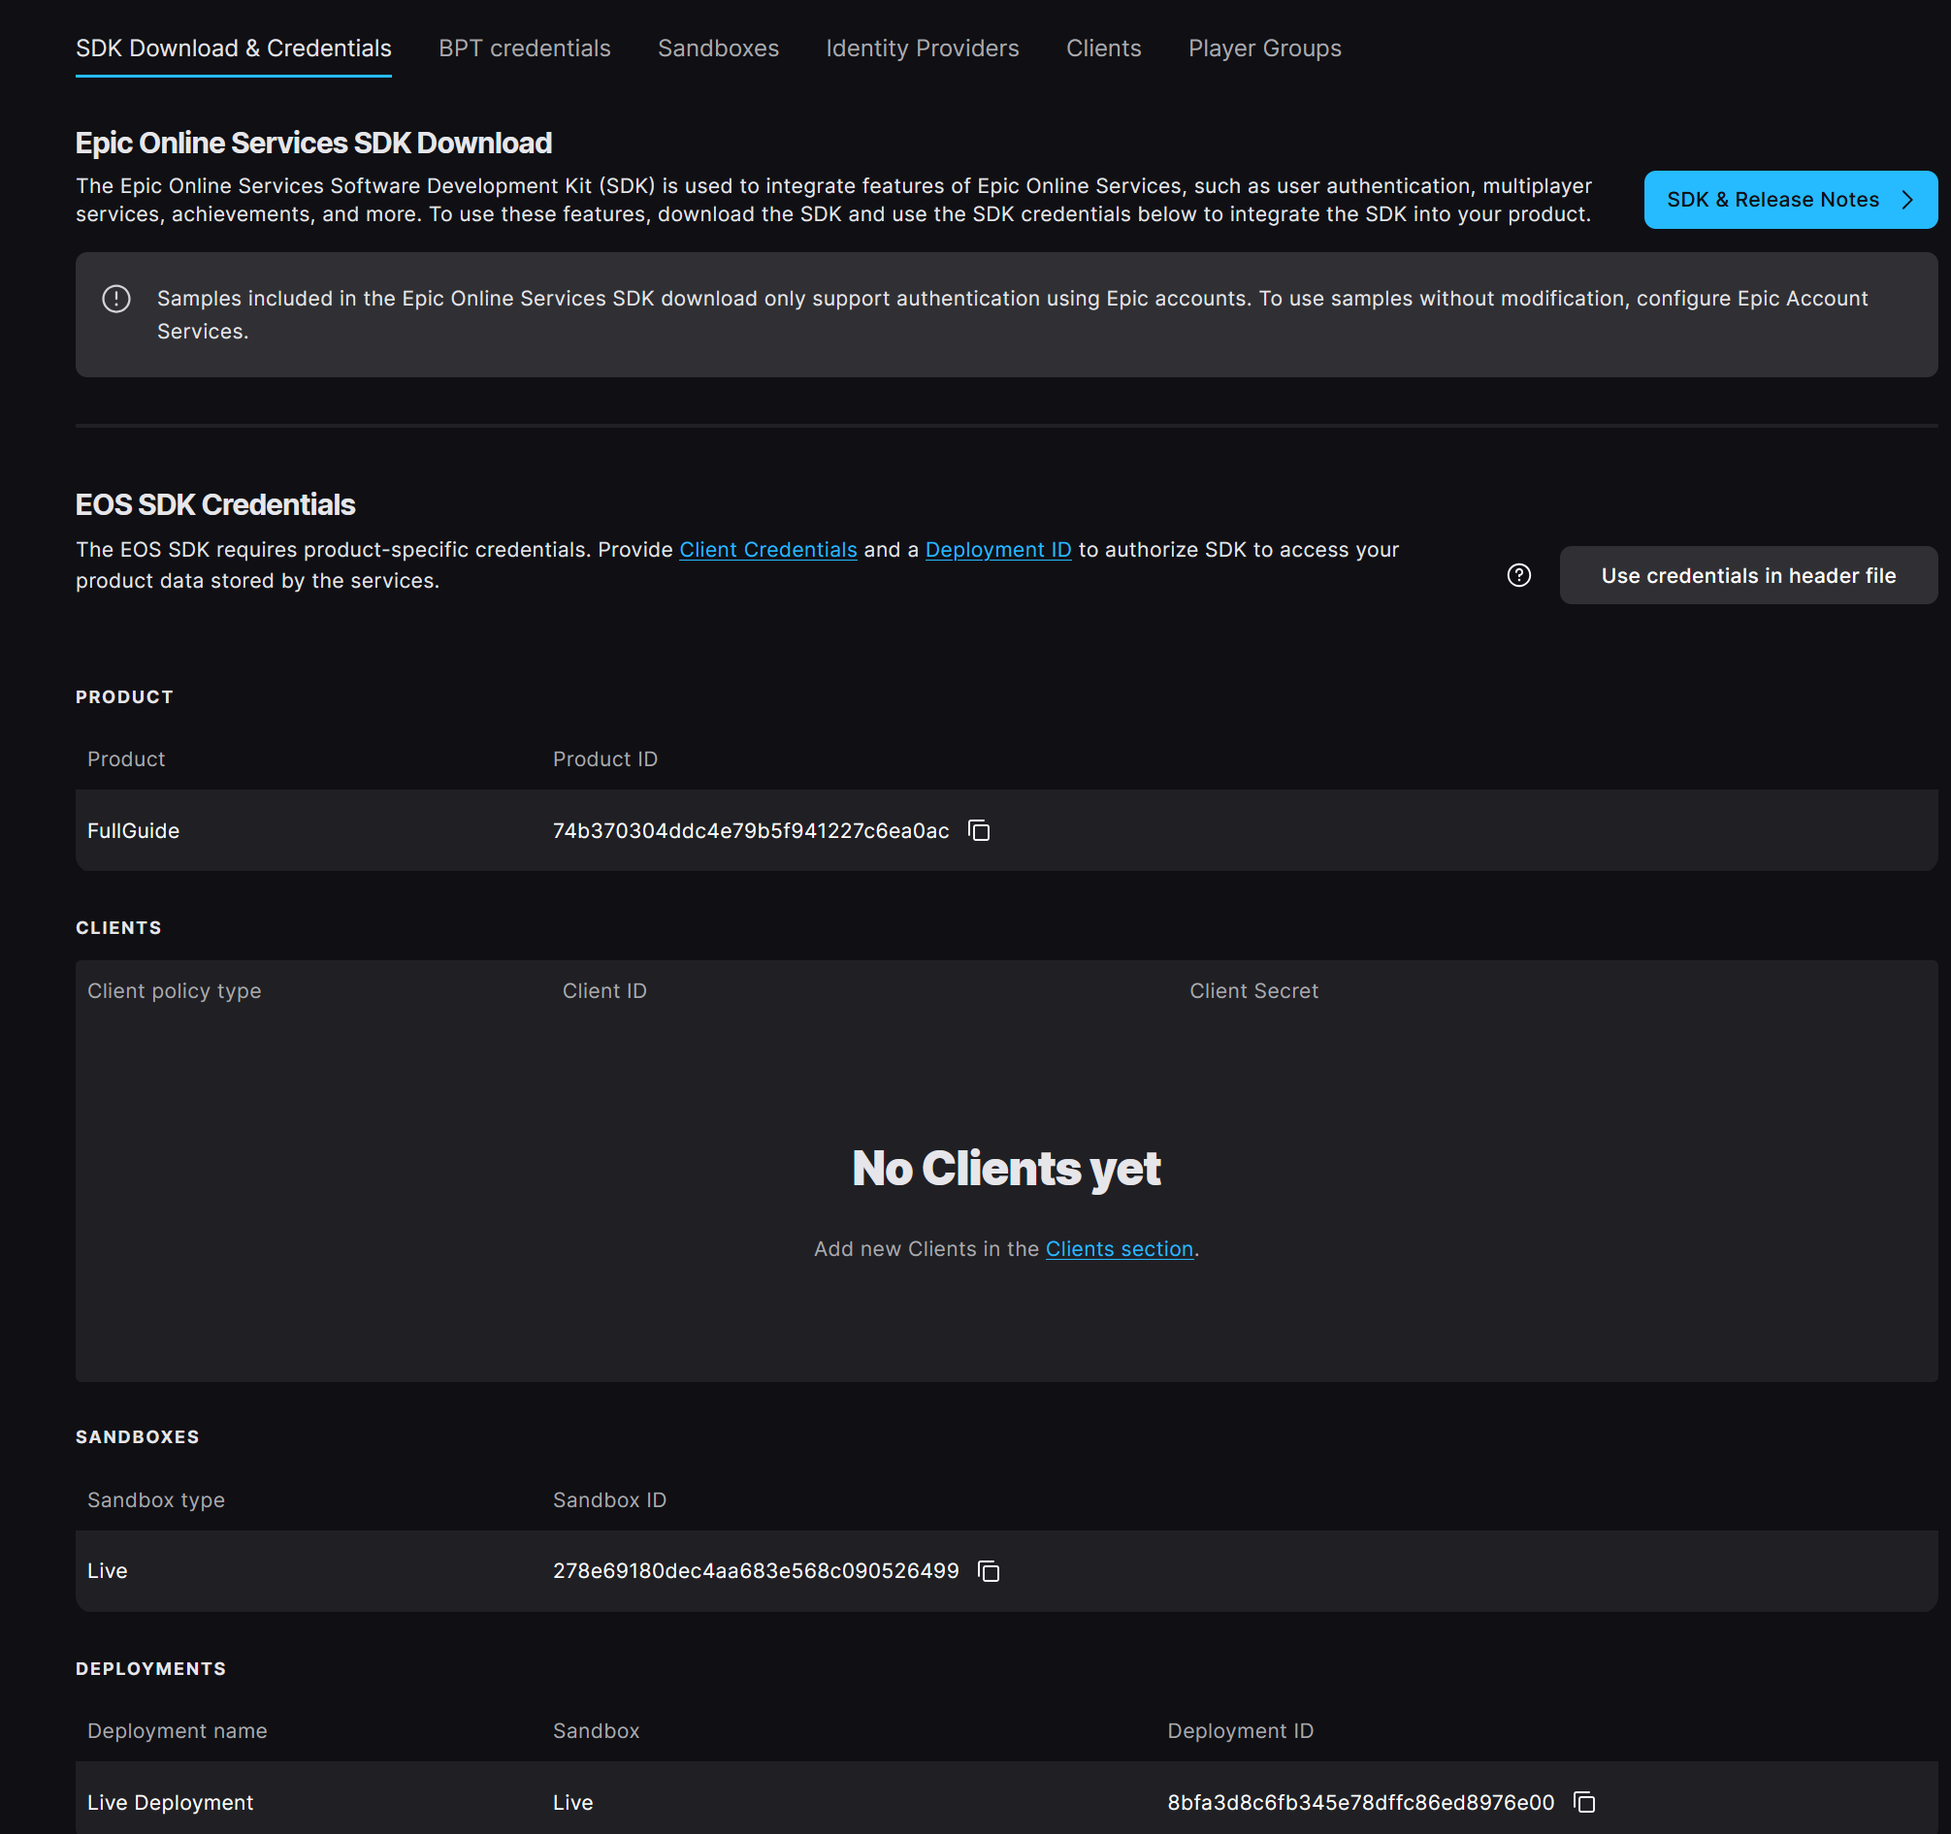
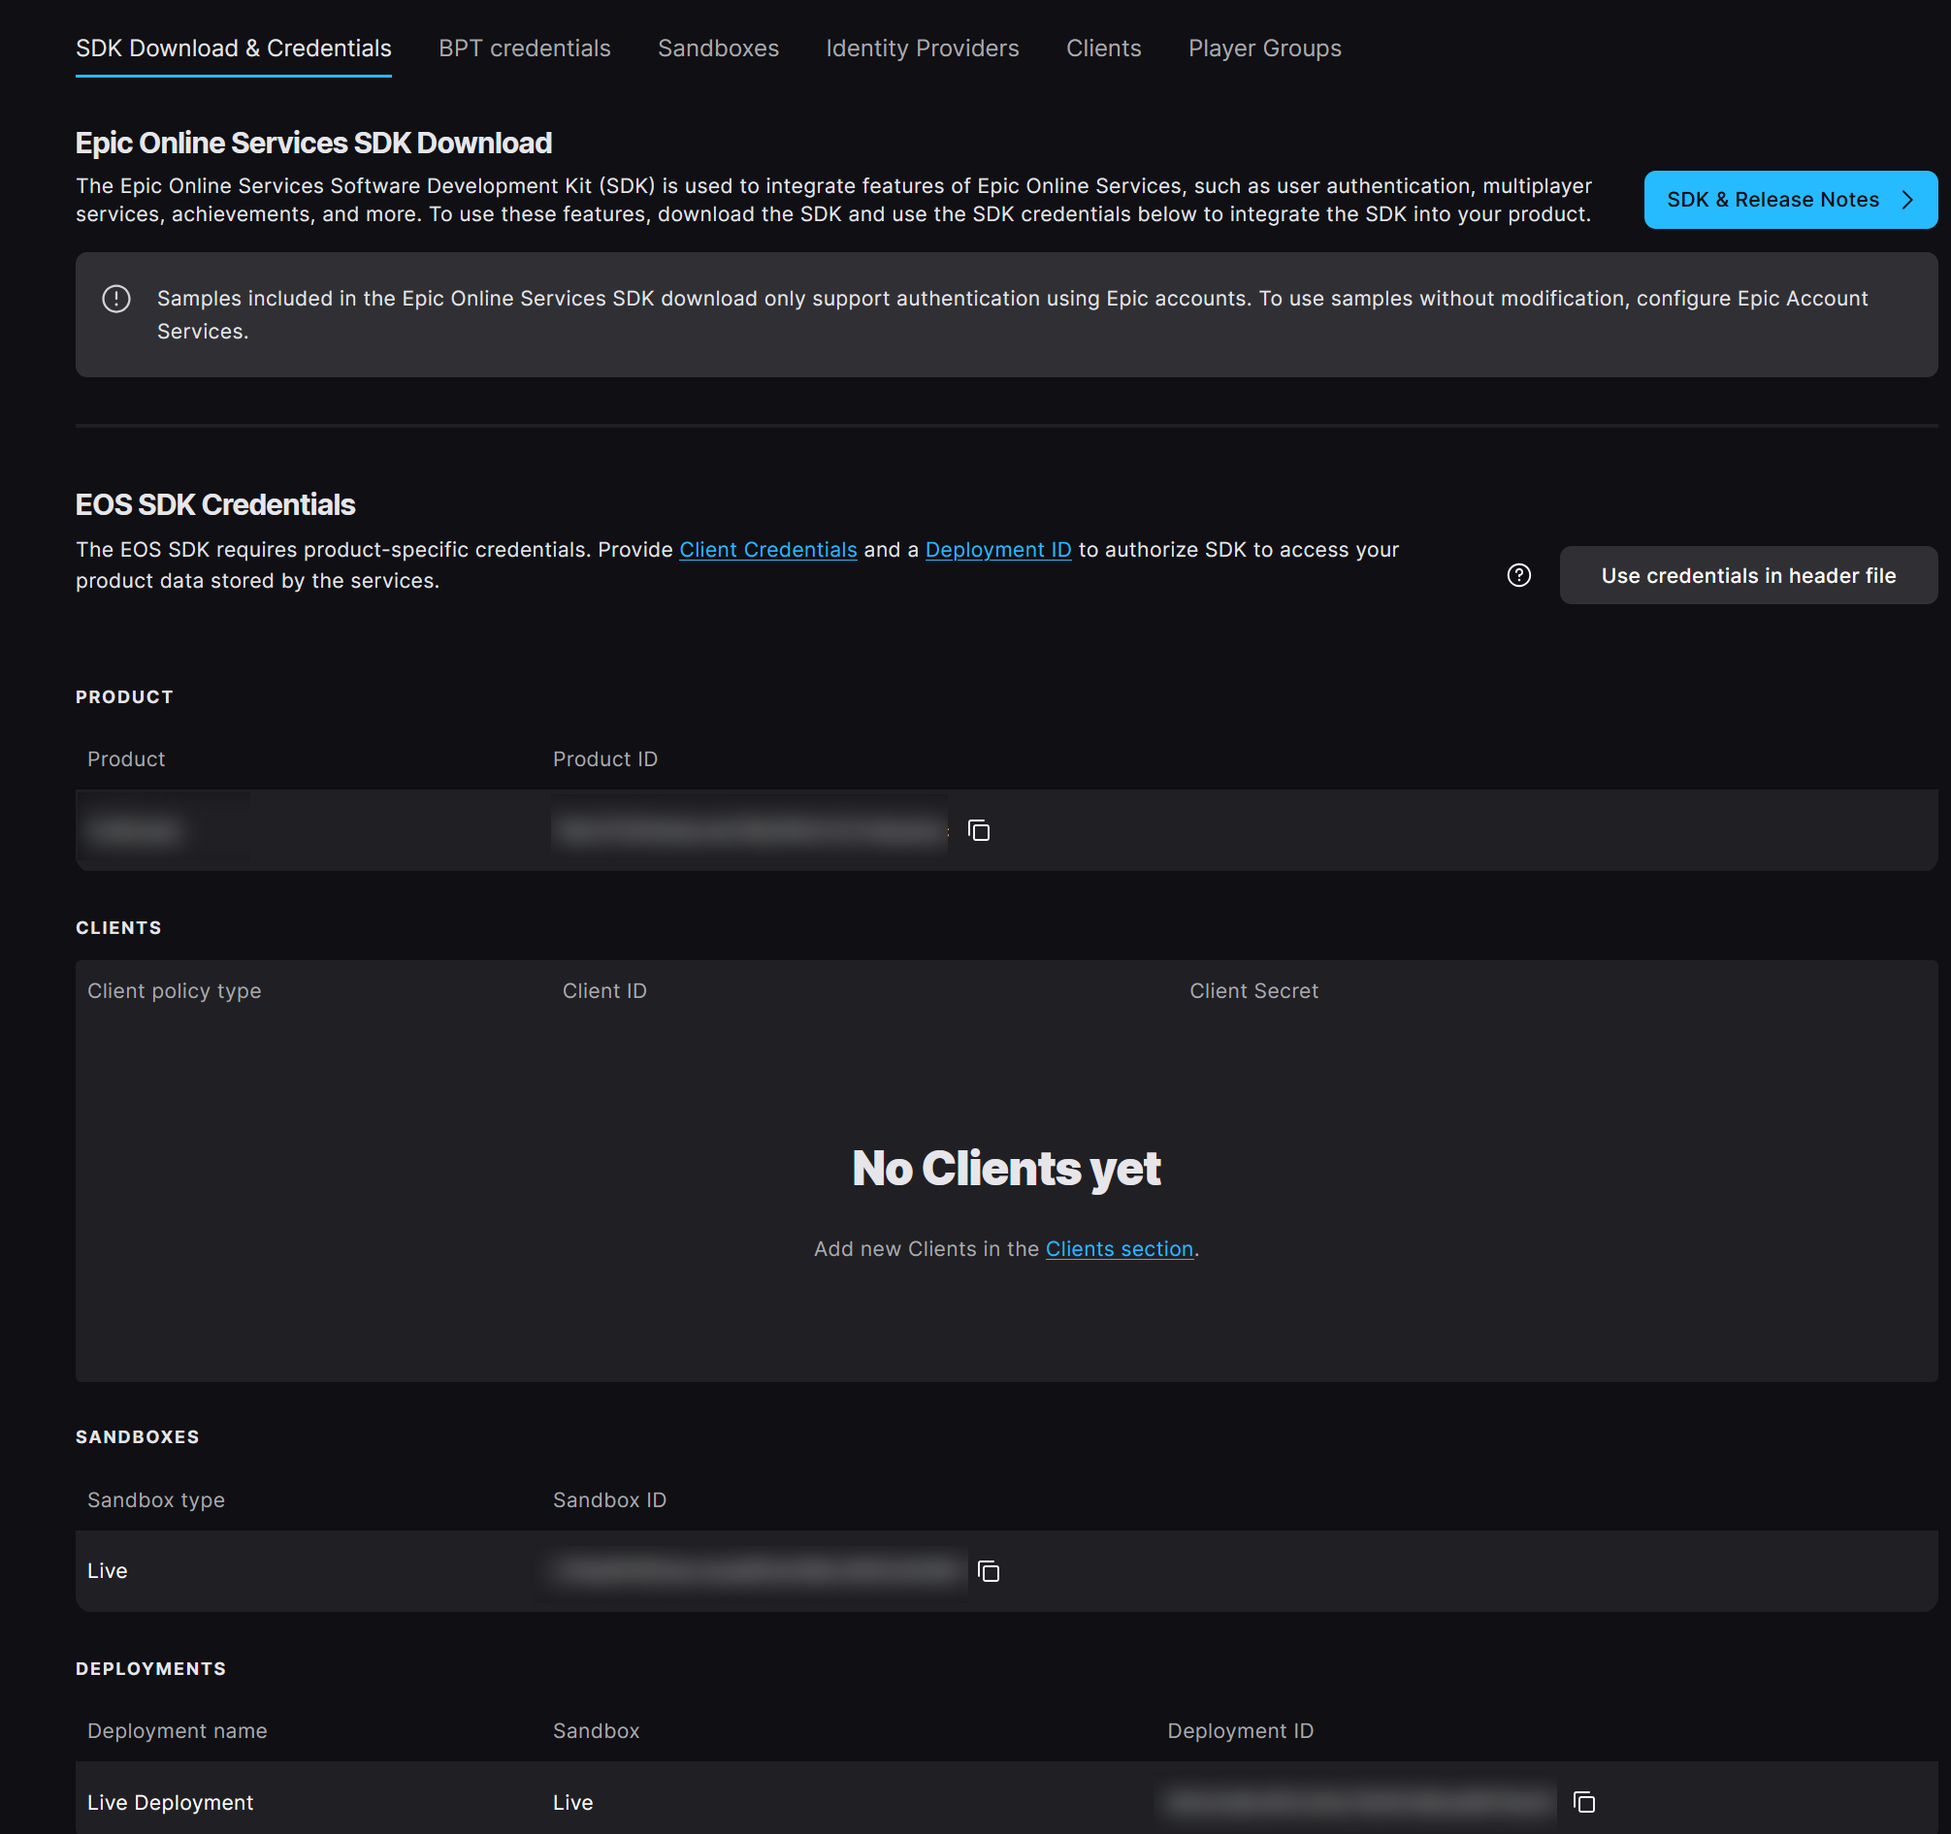
docs: Implementing PR Suggestions

diff --git a/com.playeveryware.eos/Documentation~/full_guide/01_starthere.md b/com.playeveryware.eos/Documentation~/full_guide/01_starthere.md
@@ -3,20 +3,27 @@
 # Full Guide to Implementing the EOS Plugin for Unity
 
 This document serves as the starting point for a beginning-to-end guide on how to implement the EOS Plugin for Unity into your game.
-The only prerequisite to following this guide is having a game you want to implement the plugin into. This will walk you through
-the steps to set up your project, with links to documentation for more details and information.
+This will walk you through the steps to set up your project, supplemented by links to more detailed documentation should you want to explore things in greater detail.
+
+## Prerequisites
+
+This guide can be followed from a blank Unity project, or from an already implemented game. There are no steps required before you can start following this guide.
+
+See [the Supported Version of Unity Documentation](/com.playeveryware.eos/Documentation~/supported_versions_of_unity.md) to see if your version of Unity is supported.
+
+Your development team and the users of your game need to be able to access certain endpoints for the EOS Plugin for Unity to function. See [Epic's documentation on Firewall Considerations](https://dev.epicgames.com/docs/epic-online-services/eos-get-started/firewall-considerations) for a list of addresses.
+
 
 # Signing Up for Epic Online Services
 
 The EOS Plugin for Unity requires you to have a configured account and game on the Epic Game Store portal.
-For information about the benefits of publishing through Epic, see [Epic's Store Distribution portal](https://store.epicgames.com/en-US/distribution).
 This leads to [the Developer Portal landing page](https://dev.epicgames.com/portal/en-US/).
 Pressing Sign In will present you with a screen that you can sign up for a new account.
 If you already have an Epic Games Account, perhaps because you've played games on the Epic Games Store, you can sign in with that existing account.
 
-<a href="https://www.epicgames.com/id/login?"><img src="/com.playeveryware.eos/Documentation~/full_guide/epic_developerportal_signin_or_createaccount.png" alt="You can 'create account' on the Epic Developer Portal."/></a>
+<a href="https://www.epicgames.com/id/login?"><img src="/com.playeveryware.eos/Documentation~/full_guide/epic_developerportal_signin_or_createaccount.png" alt="You can either sign in to, or create an account on the Epic Developer Portal."/></a>
 
-Upon signing up or creating an account, you'll be required to create an Organization.
+After acquiring an account, if you are not using an existing Organization, you will be required to create an Organization.
 An Organization is a holder for all of the Products you make. See [Epic's documentation on Organizations](https://dev.epicgames.com/docs/dev-portal/organization-management) for more information.
 
 ## Working With an Existing Organization
@@ -24,7 +31,7 @@ An Organization is a holder for all of the Products you make. See [Epic's docume
 If you or a team member has already created an Organization, you can add Epic Game Store accounts to that organization.
 While signed in to the `Epic Games Developer Portal`, navigate to `Organization`.
 Under the `Members` tab, you can use the `Invite New` button to send an invitation email to the target user.
-That email will contain a link that will help the user sign up for an Epic Account if necessary, and then they'll join your organization.
+That email will contain a link that will help the user sign up for an Epic Account if necessary, and then subsequently they will be added to your Organization.
 
 Everyone who will be testing your game should be a part of your organization, or part of a Player Group. If they aren't, then whenever the EOS SDK requires the user to login, that user will be forbidden from accessing your application.
 For more information on Player Groups, see [Epic's documentation on Player Groups](https://dev.epicgames.com/docs/dev-portal/product-management#player-groups).
@@ -32,14 +39,15 @@ For more information on Player Groups, see [Epic's documentation on Player Group
 # Creating a Product
 
 By default your Organization will not contain any Products.
-While signed in to the `Epic Games Developer Portal`, and with your Organization selected, the `Create Product` button underneath the `Your products` header will start the process.
+While signed in to the `Epic Games Developer Portal` with your Organization selected, click the `Create Product` button underneath the `Your products` header to start the process.
+
 After naming your Product, there will be a brief wait as Epic's back-end servers process the creation.
 When it's done, you can navigate to your Product to begin configuring it.
 
 ## Additional Agreements Required
 
-At some point while navigating around your Product, there will be dialogues for Epic terms and services.
-There are several of these throughout the onboarding process, with specific domains.
+While navigating the Epic Developer Portal to certain features, there will be dialogues to review and accept Epic terms and services.
+There are several of these throughout the onboarding process, with specific domains such as Epic Account Services. You will need to agree to the terms and services to use features that are part of those domains.
 This will bring you to a Terms of Service page with detailed information about the agreement.
 In order to utilize many features of Epic Online Services, you will need to review and agree to these conditions.
 In order to use any features under `Epic Games Store`, there will be an agreement process that includes a possible submission fee.
@@ -48,36 +56,36 @@ While this agreement is required to perform Epic Game Store operations, includin
 
 # Creating a Client Policy and Client
 
-The landing page for a Product will note your existing Product, Clients, Sandboxes, and Deployments.
+On the landing page for your Product within the Epic Developer Portal, you will see sections for your Product, Clients, Sandboxes, and Deployments.
 
 <img src="/com.playeveryware.eos/Documentation~/full_guide/epic_developerportal_productlanding.png" alt="The first thing in the Product landing page is your Product, Clients, Sandboxes, and Deployments. Other than Product, these likely haven't been configured yet."/>
 
-In order to get the most out of the EOS Plugin for Unity, you'll need to create several of these.
+In order to get the most out of the EOS Plugin for Unity, you'll need to create and configure a Product, a Client, Sandboxes, and Deployments.
 Start by creating a Client by navigating to the `Clients` section.
 There you'll see your list of Clients and Client policies, which will be empty.
 
 For more information on Clients and Client Policies, see [Epic's Client Credential and Client Policy Management documentation](https://dev.epicgames.com/docs/dev-portal/client-credentials).
 Clients are essentially types of contexts for your game. For example, all users running your game from the store will be assigned a Client that represents their abilities.
 Each Client is assigned to one Client Policy.
-Client Policies are configurable sets of rules for what permissions a Client can perform. For example, a Client Policy determines the EOS SDK's ability to look up information about a player's friend list.
+Client Policies are configurable sets of rules for what permissions a Client can perform. For example, a Client Policy determines the EOS SDK's ability to look up information about the friend list for a particular player.
 
-First, create a Client policy. Press the `Add new policy` button to bring up the dialogue.
+The first thing to configure on this screen is a Client Policy. Press the `Add new policy` button to bring up the dialogue.
 The Client Policy needs a name, as well as select the details of a policy.
 If you select a preset, the permissions for that policy preset will be displayed in the dialogue.
 Custom policies can be defined here, and changed at any time. You don't need to commit to the final details at this time.
 The most permissive default policy is `GameClient /w UnlockAchievements`, which will give the Client Policy all of the permissions necessary to perform most actions.
 
-When the Client Policy is created, next create a client. Press `Add new client` to bring the Add new client dialogue.
+After the Client Policy is created, create a client. Press `Add new client` to bring the Add new client dialogue.
 This will require a name and a Client Policy. Use the previously created Client Policy.
-`Trusted Server IP allow list` and `Epic Account Service Redirect URL` are not required to be filled at this time.
+At this time, it is not required that you fill the fields for either the `Trusted Server IP allow list` or the `Epic Account Service Redirect URL`. For information on Trusted Servers see [Epic's documentation on Linked Clients](https://dev.epicgames.com/docs/epic-account-services/getting-started#linked-clients). For information on the Redirect URL see [Epic's documentation on Web Applications](https://dev.epicgames.com/docs/web-api-ref/authentication#web-applications).
 
 # Creating an Application
 
-Navigate to the `Epic Account Services` page. The landing will show you all configured Applications, which is empty at first.
+Navigate to the `Epic Account Services` page. The landing will show you all configured Applications, which is empty at first. 
+Use `Create Application` to get started. Immediately when you press this button, an Application will be created for you.
 See [Epic's documentation on Applications in the Developer Portal Introduction](https://dev.epicgames.com/docs/dev-portal/dev-portal-intro#application) for more information on Applications.
 An Application is collection of information about your game, which is later used to provide the Epic Game Store with essential information and permissions.
-Use `Create Application` to get started. Immediately when you press this button, an Application will be created for you.
-This will bring up a dialogue with three major steps; `Brand Settings`, `Permissions`, and `Linked Clients`.
+The `Create Application` button will bring up a dialogue with three major steps; `Brand Settings`, `Permissions`, and `Linked Clients`.
 
 `Brand Settings` contains information about your game such as the Application's website.
 To utilize the EOS Plugin for Unity, you do not need to fill this page out at this time.
@@ -89,19 +97,19 @@ This can be adjusted later. For full use of the EOS Plugin for Unity, consider m
 Assign the Client Policy created earlier to this.
 
 When you exit this dialogue, the created Application will appear in the Applications page.
-Navigating back to the `Product Settings` page, `Sandboxes` and `Deployments` will automatically be made for Dev, Stage, and Live.
+Navigating back to the `Product Settings` page, you will see entries in `Sandboxes` and `Deployments` will have been automatically created for you for `Dev`, `Stage`, and `Live`.
 
 # Add the EOS Plugin for Unity to Your Game
 
 With a Client Policy, Client, and Application created, you're ready to start adding the EOS Plugin for Unity to your game.
-Follow [the Add Plugin documentation](/com.playeveryware.eos/Documentation~/add_plugin.md) to add the Plugin to the project.
+Follow [our documentation for adding the plugin to your project](/com.playeveryware.eos/Documentation~/add_plugin.md).
 Once successfully included, follow [the guidance on Importing the Samples](com.playeveryware.eos/Documentation~/samples.md).
-In the EOS Plugin for Unity project, the provided code with the plugin will give you the ability to use EOS SDK's interfaces using convenient C# wrapper.
+In the EOS Plugin for Unity project, the provided code with the plugin will give you the ability to use EOS SDK's interfaces using a convenient C# wrapper.
 Inside the Samples are a set of `Manager`s and `Service`s that wrap up the EOS SDK in easy-to-use functions.
 The Samples come with scenes that demonstrate the usage of the EOS Plugin for Unity's Manager classes for each Sample's domain.
 
-Next follow [the Configuring the Plugin](/com.playeveryware.eos/Documentation~/configure_plugin.md) guidance.
-Inside of Unity using the top bar, navigate to `Tools` -> `EOS Plugin` -> `EOS Configuration`.
+Next follow [our documentation regarding how to configure the plugin](/com.playeveryware.eos/Documentation~/configure_plugin.md).
+Inside of Unity (using the menu bar), navigate to `Tools` -> `EOS Plugin` -> `EOS Configuration`.
 
 <img src="/com.playeveryware.eos/Documentation~/full_guide/plugin_eosconfiguration.png" alt="The EOS Configuration popup can be filled out using information in the Product Settings page."/>
 
